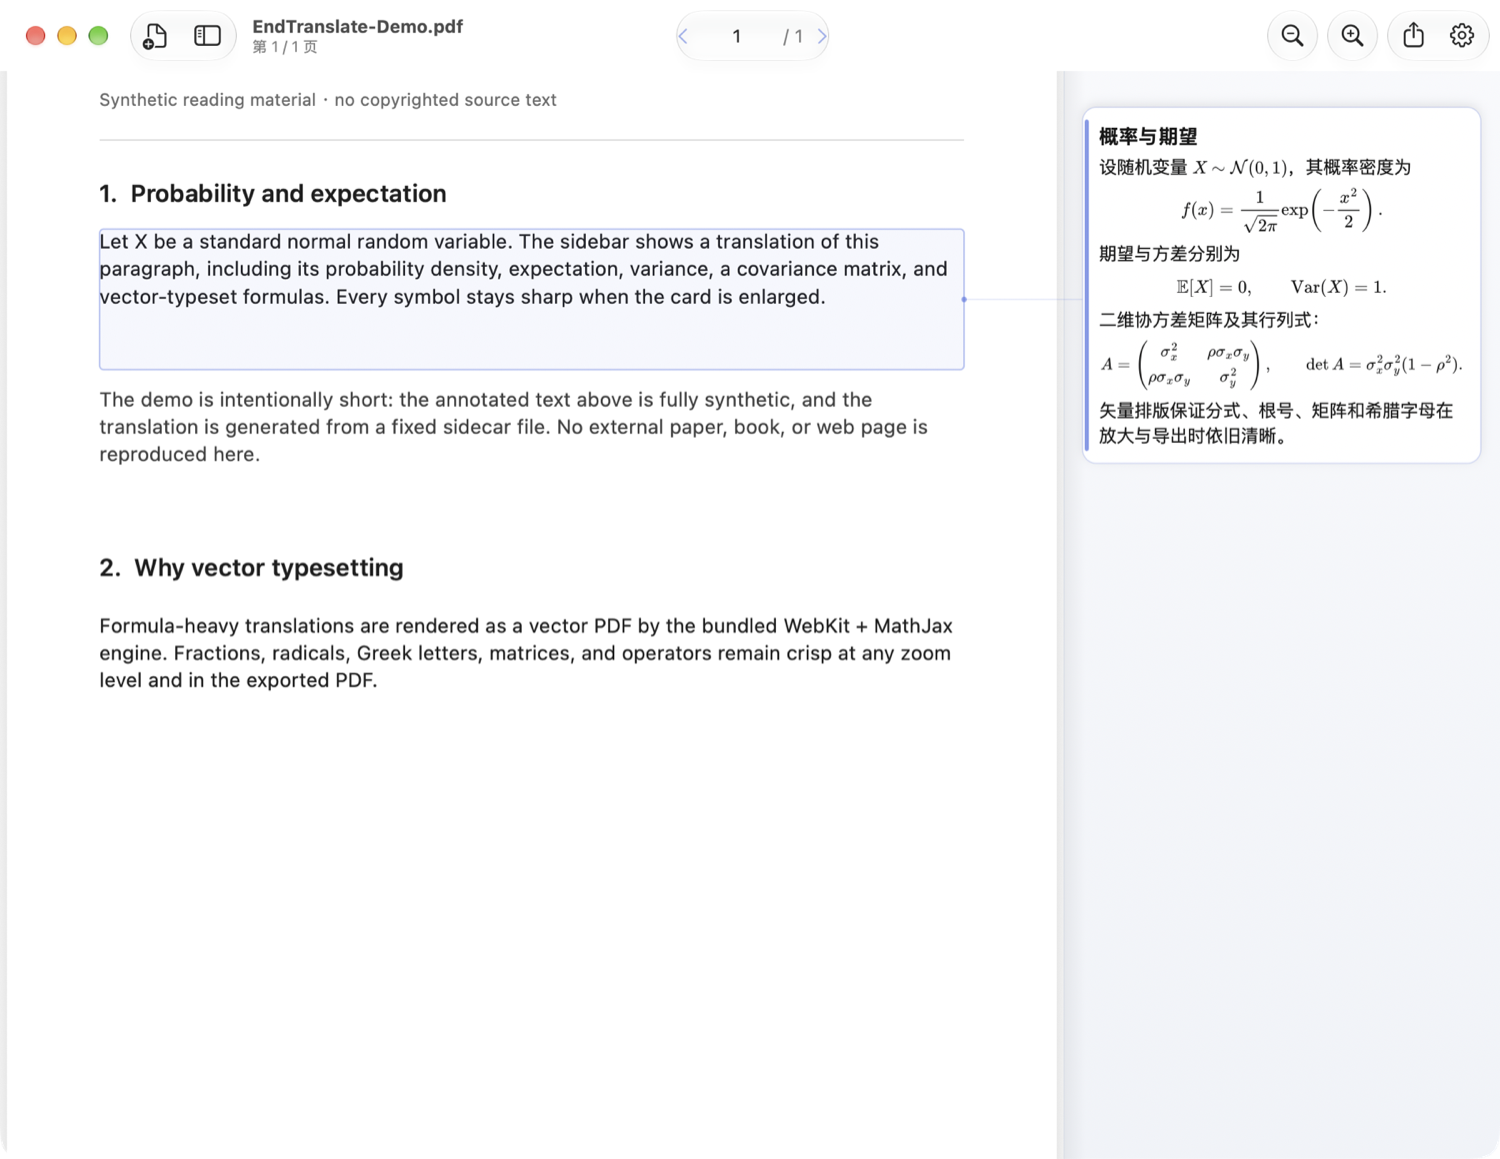
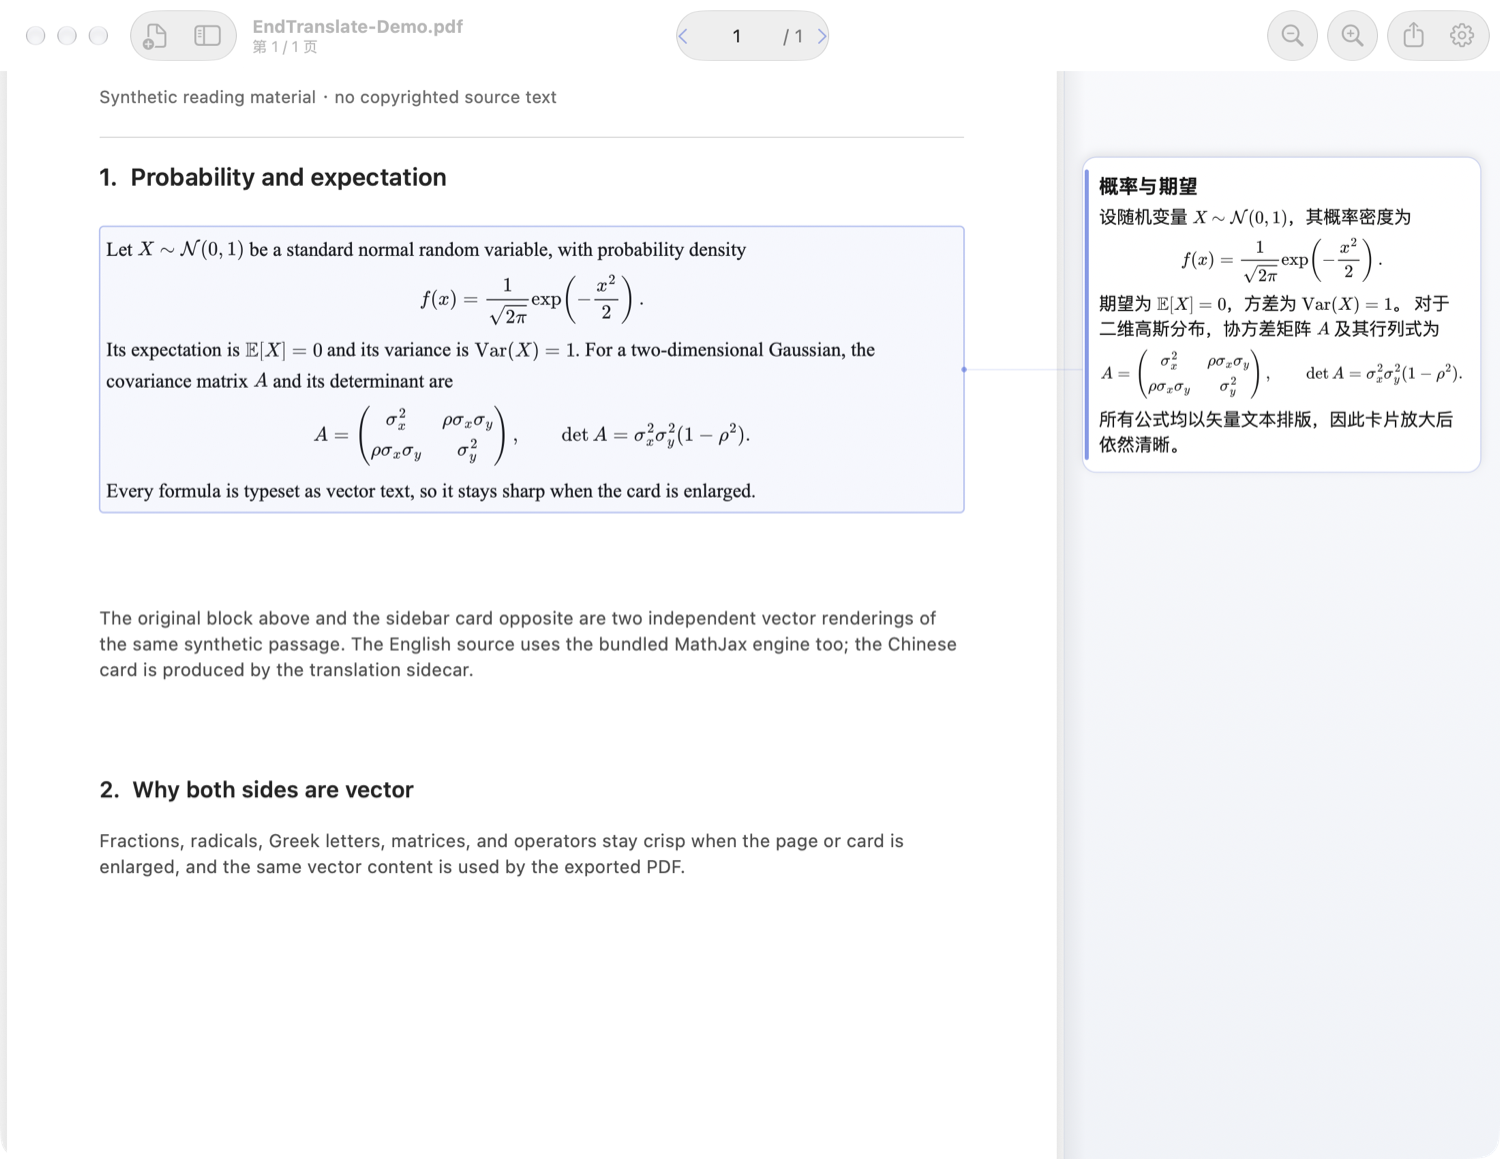
docs: match source formulas in hero preview

diff --git a/README.md b/README.md
@@ -8,13 +8,13 @@ A native macOS PDF reader with inline translation, LaTeX math rendering, and ann
 
 ## 效果预览
 
-左侧是专门撰写的合成演示 PDF，不包含任何论文、书籍或网页原文；右侧译文卡片由内置 WebKit + MathJax 排版，分式、根号、矩阵、希腊字母和表格在放大阅读及导出 PDF 时都保持矢量清晰。
+左侧是专门撰写的合成演示 PDF，不包含任何论文、书籍或网页原文；原文段落与右侧译文卡片使用同一段公式内容，两边都由内置 WebKit + MathJax 排版，分式、根号、矩阵和希腊字母在放大阅读及导出 PDF 时保持矢量清晰。
 
-![EndTranslate 阅读界面：左侧合成原文与高亮框，右侧译文卡片中的复杂公式](docs/images/reader-demo.png)
+![EndTranslate 阅读界面：左侧合成原文同样包含矢量公式，右侧译文卡片逐句对应](docs/images/reader-demo.png)
 
-密集场景下，侧边栏会把短标签自动排成多列 Bento 网格，图注独占整行；静止状态隐藏长连线，只在原文框保留锚点，避免十几条引线互相覆盖。悬停任一侧时再显示当前配对。
+密集场景下，侧边栏会把短标签自动排成多列 Bento 网格；静止状态隐藏长连线，只在原文框保留锚点，避免十几条引线互相覆盖。悬停任一侧时再显示当前配对。
 
-![密集场景：短标签排成多列网格，图注占满整行，静止时不绘制长引线](docs/images/dense-demo.png)
+![密集场景：短标签排成多列网格，静止时不绘制长引线](docs/images/dense-demo.png)
 
 ![密集场景悬停：输出 logits 的原文框与卡片成对高亮，只显示当前配对的一条引线](docs/images/dense-hover-demo.png)
 
